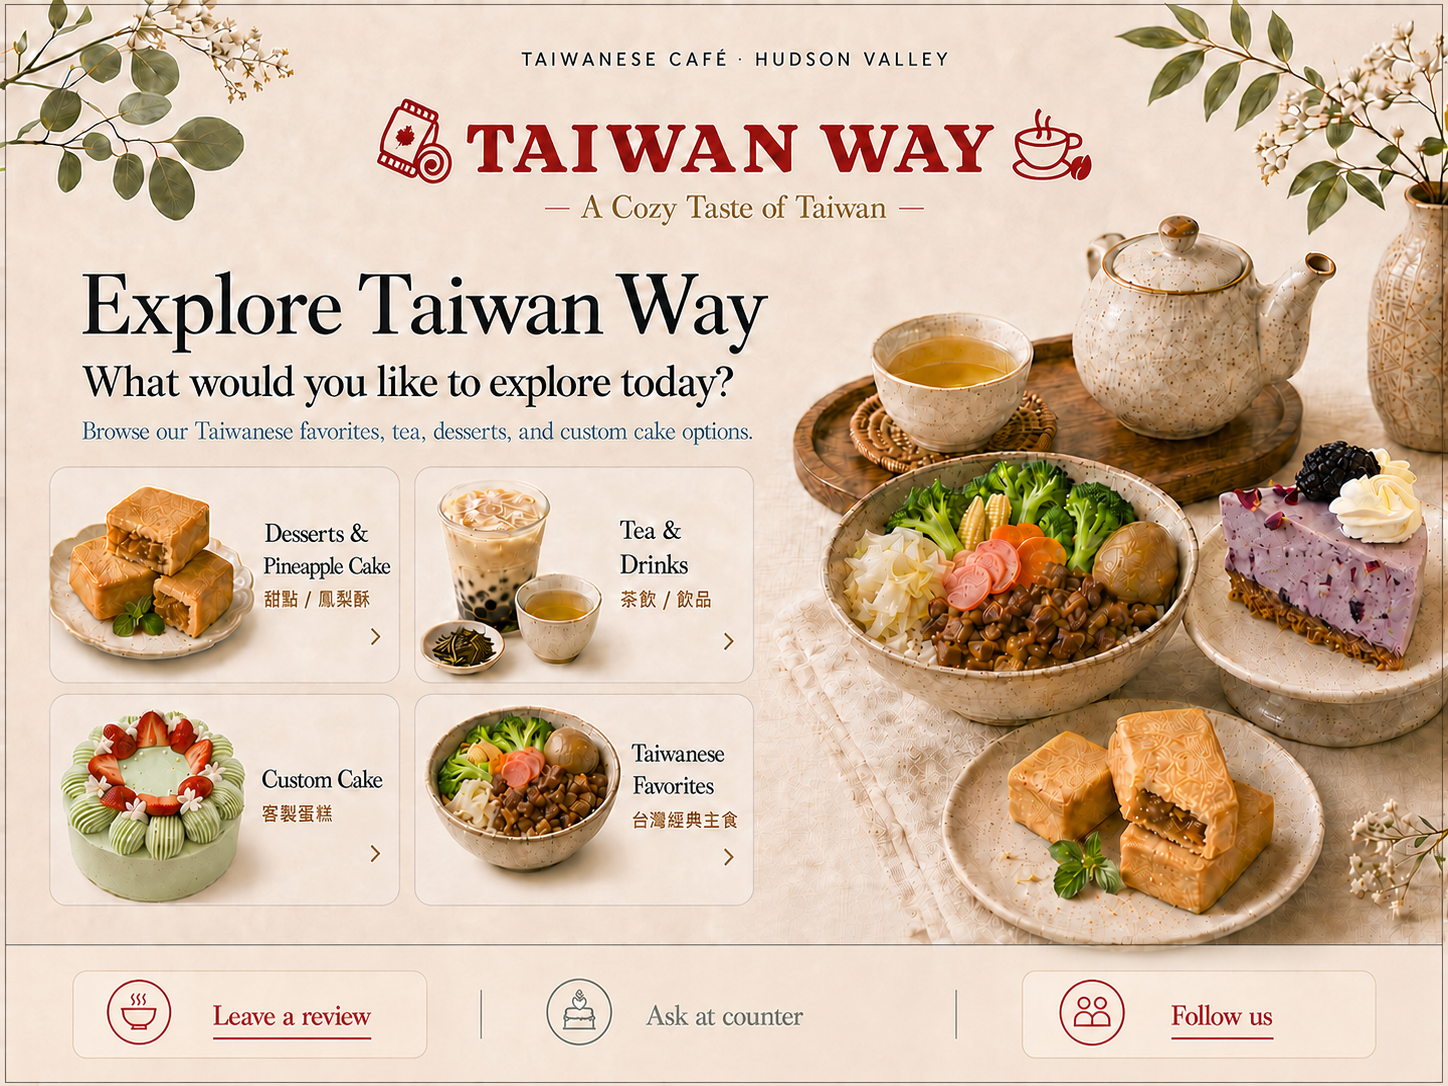
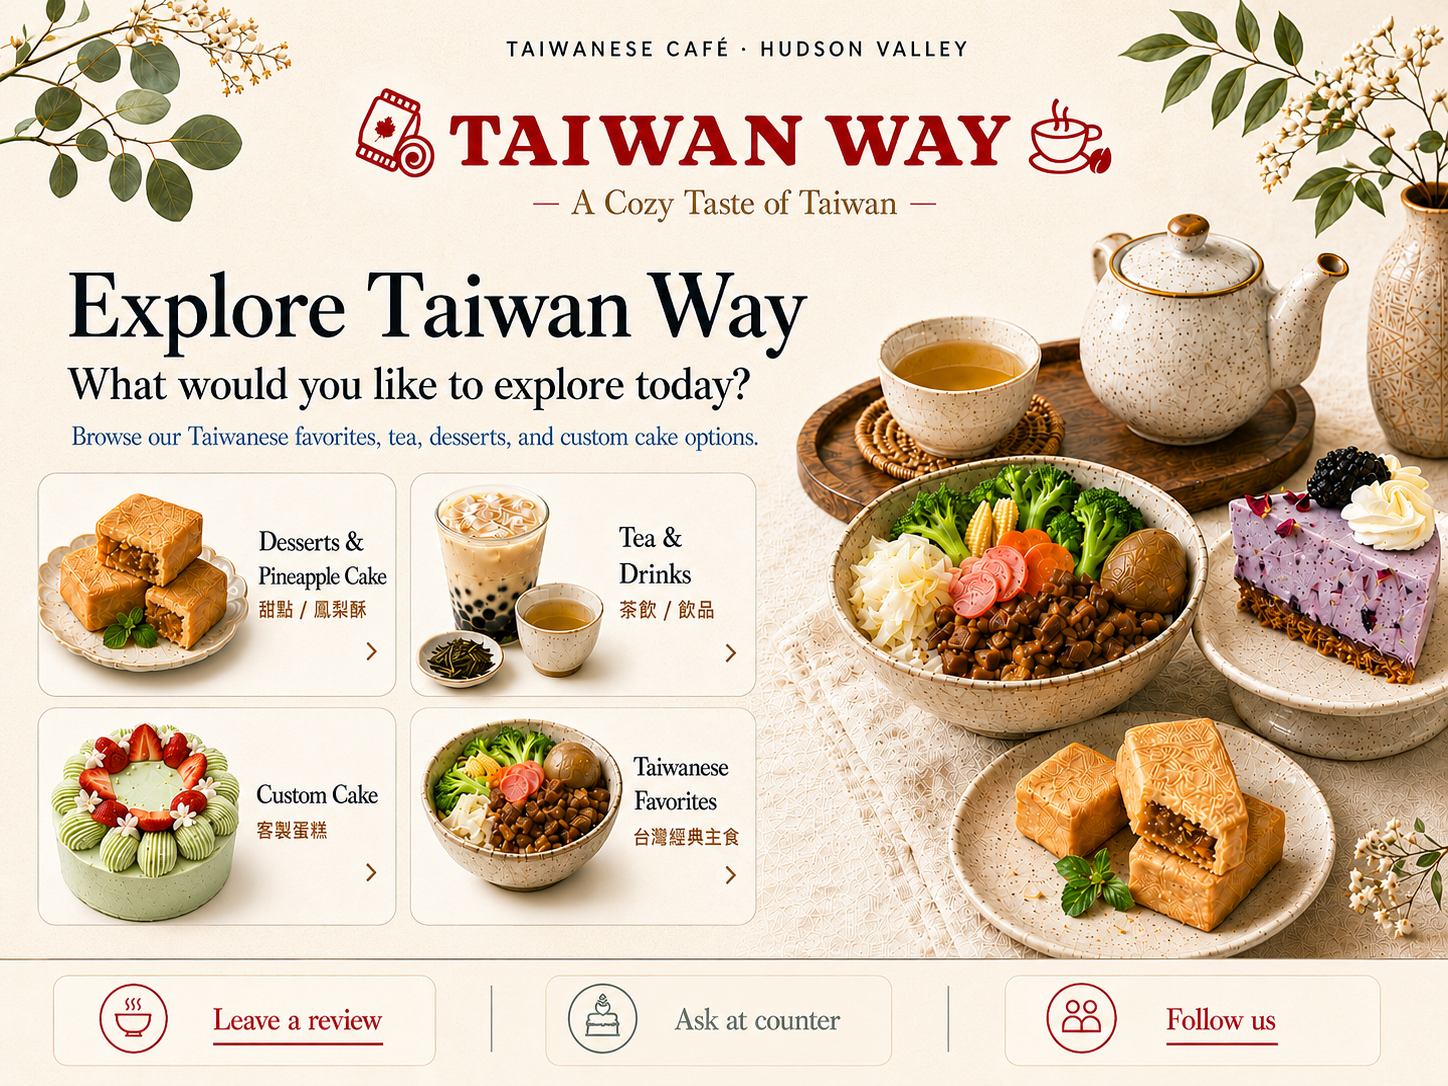
update: 替換首頁圖為精修版（版面相同、字距與留白優化）
- 4 卡入口位置不變，tap zone 座標延用
- index.html cache-bust 版本 ?v=20260511-v2 → ?v=20260512

diff --git a/index.html b/index.html
@@ -214,7 +214,7 @@
 <!-- Home: Explore Taiwan Way Hub -->
 <div class="page active" id="page-home">
   <div class="stage">
-    <img src="新ipad 首頁.png?v=20260511-v2" alt="Explore Taiwan Way">
+    <img src="新ipad 首頁.png?v=20260512" alt="Explore Taiwan Way">
     <button class="tap-zone" id="btn-home-desserts" onclick="goTo('page-pineapple')" aria-label="Desserts and Pineapple Cake"></button>
     <button class="tap-zone" id="btn-home-tea-drinks" onclick="goTo('page-tea-drinks')" aria-label="Tea and Drinks"></button>
     <button class="tap-zone" id="btn-home-custom-cake" onclick="goTo('page-custom-cake')" aria-label="Custom Cake"></button>
@@ -227,7 +227,7 @@
 <!-- Desserts: direct to Pineapple Cake (new style with Back/Home) -->
 <div class="page" id="page-pineapple">
   <div class="stage">
-    <img src="鳳梨酥內頁.png?v=20260511-v2" alt="Handmade Pineapple Cake">
+    <img src="鳳梨酥內頁.png?v=20260512" alt="Handmade Pineapple Cake">
     <button class="tap-zone btn-page-back" onclick="goTo('page-home')" aria-label="Back"></button>
     <button class="tap-zone btn-page-home" onclick="goTo('page-home')" aria-label="Home"></button>
     <div class="countdown-bar" id="bar-pineapple"></div>
@@ -237,7 +237,7 @@
 <!-- Tea & Drinks category (new style with Back/Home) -->
 <div class="page" id="page-tea-drinks">
   <div class="stage">
-    <img src="tea drinks.png?v=20260511-v2" alt="Tea and Drinks">
+    <img src="tea drinks.png?v=20260512" alt="Tea and Drinks">
     <button class="tap-zone" id="btn-td-bubble-tea" onclick="goTo('page-bubble-tea')" aria-label="Bubble Tea"></button>
     <button class="tap-zone" id="btn-td-hot-tea" onclick="goTo('page-hot-tea')" aria-label="Hot Tea"></button>
     <button class="tap-zone btn-page-back" onclick="goTo('page-home')" aria-label="Back"></button>
@@ -249,7 +249,7 @@
 <!-- Bubble Tea detail (new style with Back/Home) -->
 <div class="page" id="page-bubble-tea">
   <div class="stage">
-    <img src="珍奶內頁.png?v=20260511-v2" alt="Bubble Tea Varieties">
+    <img src="珍奶內頁.png?v=20260512" alt="Bubble Tea Varieties">
     <button class="tap-zone btn-page-back" onclick="goTo('page-tea-drinks')" aria-label="Back"></button>
     <button class="tap-zone btn-page-home" onclick="goTo('page-home')" aria-label="Home"></button>
     <div class="countdown-bar" id="bar-bubble-tea"></div>
@@ -301,7 +301,7 @@
 <!-- Taiwanese Favorites category (new style with Back/Home + footer) -->
 <div class="page" id="page-taiwanese-favorites">
   <div class="stage">
-    <img src="Taiwanese Favorites.png?v=20260511-v2" alt="Taiwanese Favorites">
+    <img src="Taiwanese Favorites.png?v=20260512" alt="Taiwanese Favorites">
     <button class="tap-zone" id="btn-tf-braised-pork" onclick="goTo('page-braised-pork')" aria-label="Braised Pork Rice"></button>
     <button class="tap-zone" id="btn-tf-beef-noodle" onclick="goTo('page-beef-noodle')" aria-label="Braised Beef Noodle Soup"></button>
     <button class="tap-zone" id="btn-tf-sakura" onclick="goTo('page-sakura-shrimp')" aria-label="Sakura Shrimp Sticky Rice"></button>
@@ -353,7 +353,7 @@
 <!-- Review (new style — Back + Home + Back to Menu) -->
 <div class="page" id="page-review">
   <div class="stage">
-    <img src="Review.png?v=20260511-v2" alt="Leave a Review">
+    <img src="Review.png?v=20260512" alt="Leave a Review">
     <button class="tap-zone btn-page-back" onclick="goTo('page-home')" aria-label="Back"></button>
     <button class="tap-zone btn-page-home" onclick="goTo('page-home')" aria-label="Home"></button>
     <button class="tap-zone btn-back-to-menu" onclick="goTo('page-home')" aria-label="Back to Menu"></button>
@@ -364,7 +364,7 @@
 <!-- Follow Us (new style — Back + Home + Back to Menu) -->
 <div class="page" id="page-follow">
   <div class="stage">
-    <img src="Follow.png?v=20260511-v2" alt="Follow TaiwanWay">
+    <img src="Follow.png?v=20260512" alt="Follow TaiwanWay">
     <button class="tap-zone btn-page-back" onclick="goTo('page-home')" aria-label="Back"></button>
     <button class="tap-zone btn-page-home" onclick="goTo('page-home')" aria-label="Home"></button>
     <button class="tap-zone btn-back-to-menu" onclick="goTo('page-home')" aria-label="Back to Menu"></button>
@@ -386,7 +386,7 @@
   const SLIDE_TIME_PHOTO = 5500;
   const SLIDE_TIME_INFO = 11000;
   const SLIDE_TIME_FEATURE = 15000;
-  const V = '?v=20260511-v2';
+  const V = '?v=20260512';
   const attractSlides = [
     { image: 'url("新ipad 首頁.png' + V + '")',         duration: SLIDE_TIME_INFO    },
     { image: 'url("Taiwanese Favorites.png' + V + '")',  duration: SLIDE_TIME_INFO    },
